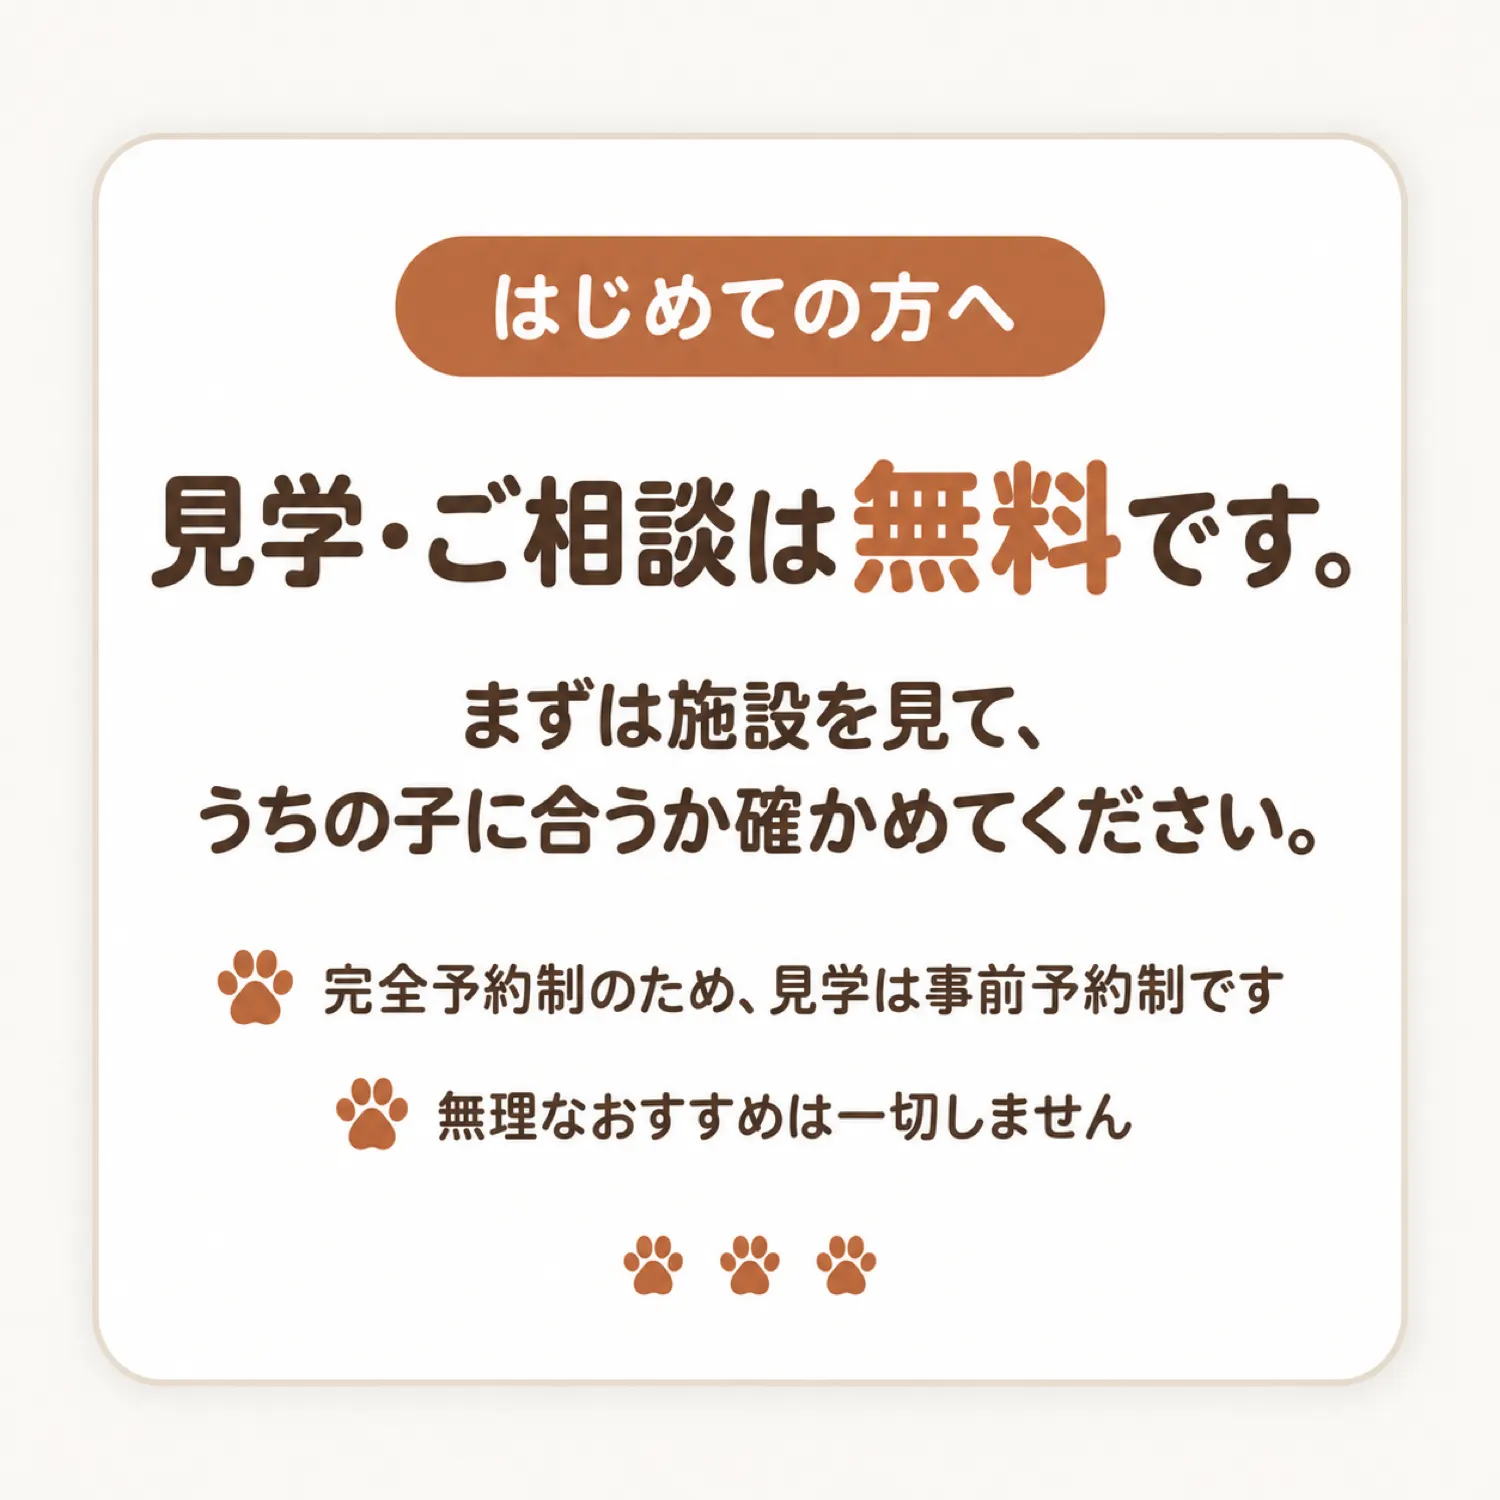
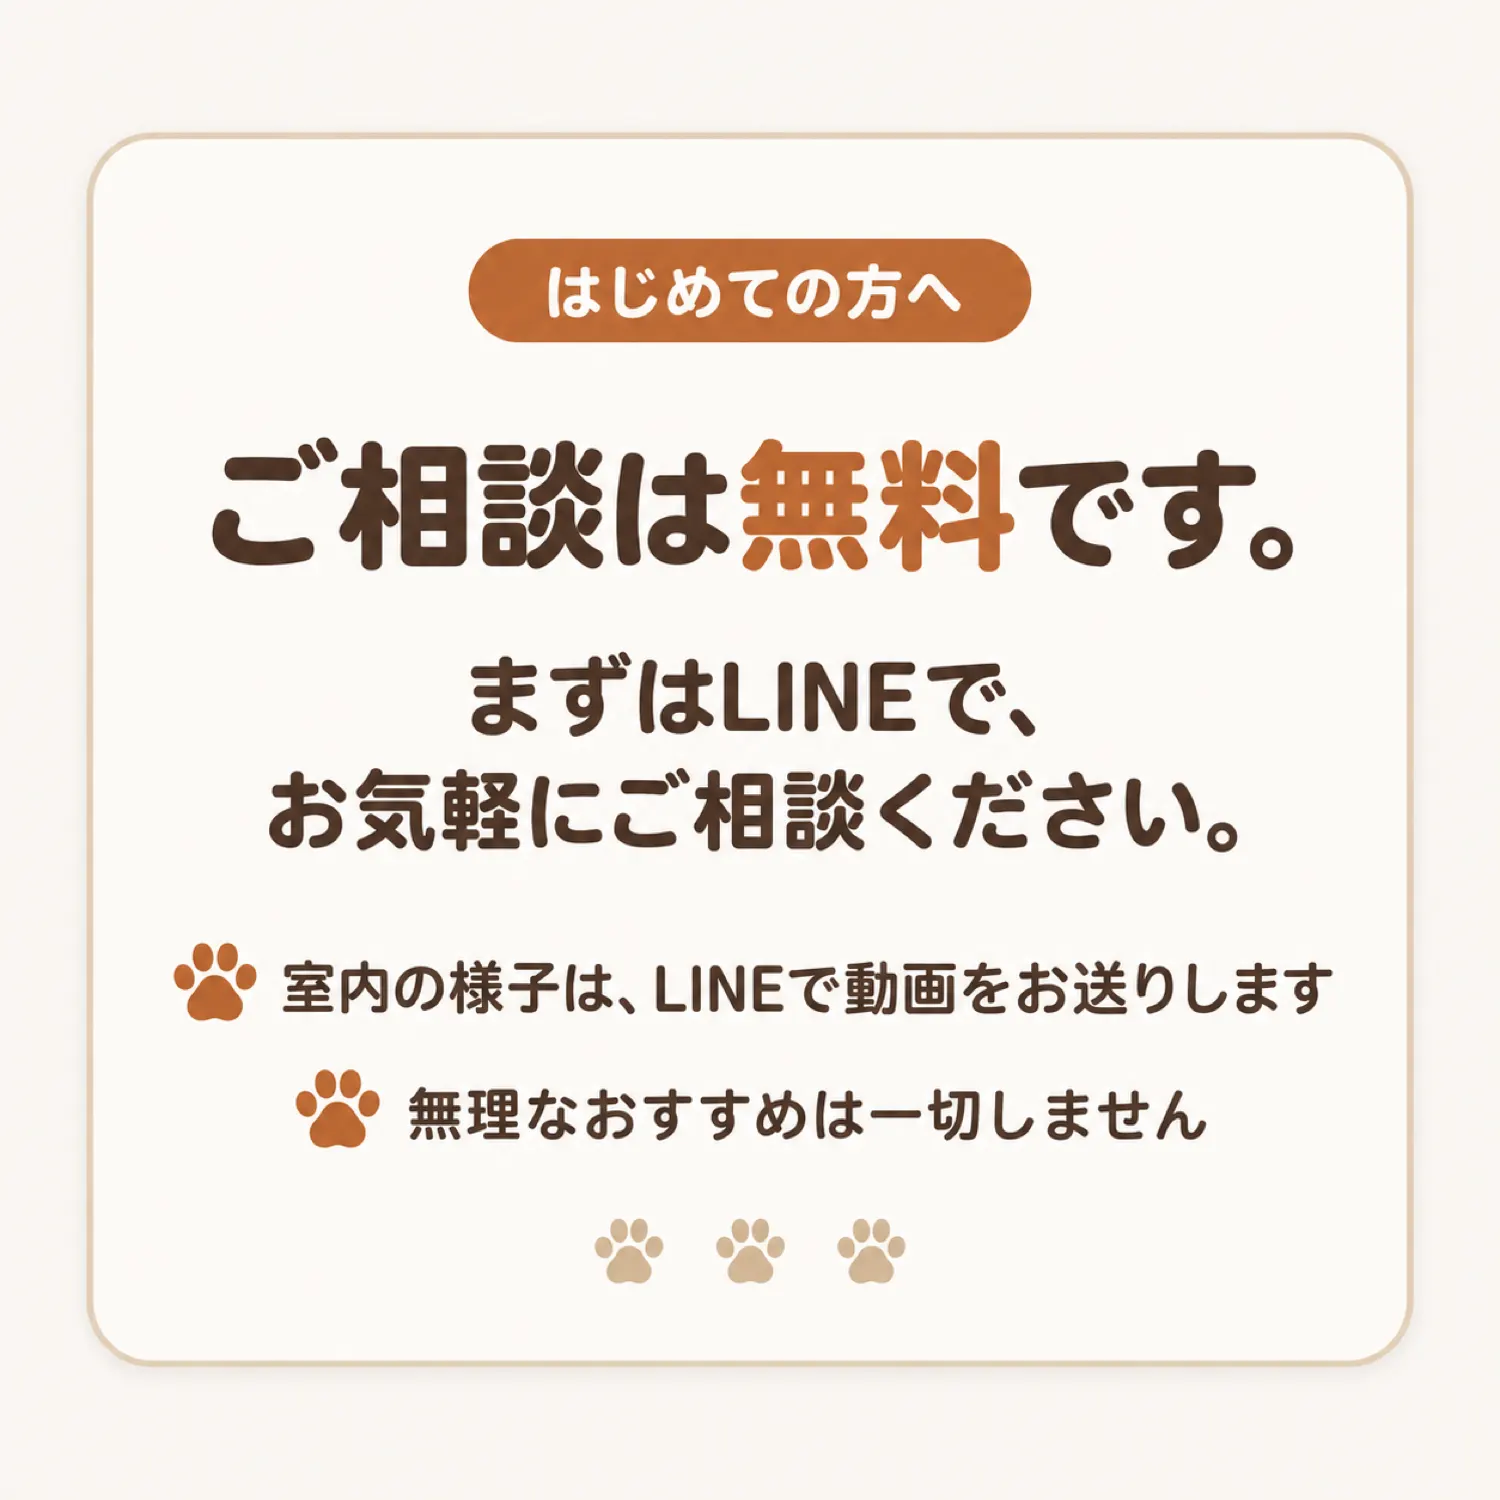
update

diff --git a/index.html b/index.html
@@ -15,9 +15,9 @@
 
   <!-- ▼編集ここから（基本情報・SEO/OGP） -->
   <title>ペットホテル KOKOHOREわんにゃん｜広島市安芸区・海田市駅｜ケージフリー・24時間住み込み</title>
-  <meta name="description" content="広島市安芸区・JR海田市駅のペットホテル。ケージに入れないケージフリーの個室、オーナー夫婦が24時間住み込み、1日5頭まで。わんちゃん・ねこちゃんのお預かり。見学・ご相談無料。">
+  <meta name="description" content="広島市安芸区・JR海田市駅のペットホテル。ケージに入れないケージフリーの個室、オーナー夫婦が24時間住み込み、1日5頭まで。わんちゃん・ねこちゃんのお預かり。ご相談無料。">
   <meta property="og:title" content="ストレスフリーで過ごせるペットホテル｜KOKOHOREわんにゃん（広島市安芸区・海田市駅）">
-  <meta property="og:description" content="広島市安芸区・海田市駅。ケージフリーの個室×夫婦が24時間住み込み×1日5頭まで。見学・ご相談は無料です。">
+  <meta property="og:description" content="広島市安芸区・海田市駅。ケージフリーの個室×夫婦が24時間住み込み×1日5頭まで。ご相談は無料です。">
   <meta property="og:type" content="website">
   <meta property="og:site_name" content="ペットホテル KOKOHOREわんにゃん">
   <meta property="og:locale" content="ja_JP">
@@ -64,15 +64,15 @@
 
       <!-- ▲① -->
 
-      <!-- ▼② 見学・ご相談 無料 -->
+      <!-- ▼② ご相談 無料 -->
       <section class="slice campaign">
-        <img src="img/02-campaign.webp?v=1" width="1500" height="1500" loading="lazy"
-             alt="はじめての方へ。見学・ご相談は無料です。まずは施設を見て、うちの子に合うか確かめてください。完全予約制のため、見学は事前予約制です。無理なおすすめは一切しません">
+        <img src="img/02-campaign.webp?v=2" width="1500" height="1500" loading="lazy"
+             alt="はじめての方へ。ご相談は無料です。まずはLINEで、お気軽にご相談ください。室内の様子は、LINEで動画をお送りします。無理なおすすめは一切しません">
       </section>
       <div class="cta-block tint">
         <a href="#cta-final" class="btn btn-line" data-line data-cta="campaign-line">
           <svg class="ico" aria-hidden="true"><use href="#ico-line"/></svg>
-          <span class="t">LINEで見学を予約する<small>完全予約制・無理なおすすめはしません</small></span>
+          <span class="t">LINEで無料相談する<small>室内の様子は動画でお送りします</small></span>
         </a>
       </div>
       <!-- ▲② -->
@@ -142,16 +142,16 @@
 
       <!-- ▼⑬ ご利用の流れ -->
       <section class="slice">
-        <img src="img/13-flow.webp?v=1" width="1500" height="2250" loading="lazy"
-             alt="ご利用の流れ。はじめての方も、見学からゆっくり。STEP1 LINEまたはお電話でご相談。STEP2 見学（無料・初めての方におすすめ）。STEP3 ご予約：1年以内の混合ワクチン・狂犬病予防接種の証明をご確認します。STEP4 チェックイン：食べ慣れたフード・お気に入りの毛布など持ち込みOK。STEP5 お預かり中：LINEで写真・動画をお届け。STEP6 お迎え">
+        <img src="img/13-flow.webp?v=2" width="1500" height="2250" loading="lazy"
+             alt="ご利用の流れ。はじめての方も、ご相談からゆっくり。STEP1 LINEまたはお電話でご相談。STEP2 室内の様子をLINEで動画でご確認。STEP3 ご予約：1年以内の混合ワクチン・狂犬病予防接種の証明をご確認します。STEP4 チェックイン：食べ慣れたフード・お気に入りの毛布など持ち込みOK。STEP5 お預かり中：LINEで写真・動画をお届け。STEP6 お迎え">
       </section>
 
       <!-- CTA（⑬直後） -->
       <div class="cta-block tint" id="cta-final">
-        <p class="cta-lead">まずは、見学・ご相談から<small>完全予約制・見学は無料です</small></p>
+        <p class="cta-lead">まずは、LINEでご相談から<small>ご相談は無料・完全予約制です</small></p>
         <a href="#cta-final" class="btn btn-line" data-line data-cta="final-line">
           <svg class="ico" aria-hidden="true"><use href="#ico-line"/></svg>
-          <span class="t">LINEで相談・見学予約<small>写真・動画のお届けもLINEで</small></span>
+          <span class="t">LINEで無料相談<small>写真・動画のお届けもLINEで</small></span>
         </a>
         <a href="#" class="btn btn-tel" data-tel data-cta="final-tel" hidden>
           <svg class="ico" aria-hidden="true"><use href="#ico-tel"/></svg>
@@ -185,8 +185,8 @@
             <div class="a"><span class="mark">A</span><p>申し訳ございません。お預かりできるのはわんちゃん・ねこちゃんのみで、鳥・インコなどはお受けしていません。</p></div>
           </details>
           <details>
-            <summary><span class="q">Q</span>見学だけでもできますか？</summary>
-            <div class="a"><span class="mark">A</span><p>はい、見学・ご相談は無料です。完全予約制のため、事前にご連絡のうえお越しください。</p></div>
+            <summary><span class="q">Q</span>預ける前に、施設の様子を知ることはできますか？</summary>
+            <div class="a"><span class="mark">A</span><p>はい。LINEにご登録いただくと、お部屋やお預かりの様子を動画でお送りします。ご不安な点はLINE・お電話でお気軽にご相談ください。</p></div>
           </details>
           <details>
             <summary><span class="q">Q</span>吠えやすい子でも大丈夫ですか？</summary>
@@ -250,7 +250,7 @@
   <nav class="fixed-cta" aria-label="お問い合わせ">
     <a href="#cta-final" class="btn btn-line" data-line data-cta="bar-line">
       <svg class="ico" aria-hidden="true"><use href="#ico-line"/></svg>
-      <span class="t">LINEで相談・見学予約<small>写真・動画のお届けもLINEで</small></span>
+      <span class="t">LINEで無料相談<small>写真・動画のお届けもLINEで</small></span>
     </a>
     <a href="#" class="btn btn-tel" data-tel data-cta="bar-tel" hidden>
       <svg class="ico" aria-hidden="true"><use href="#ico-tel"/></svg>
